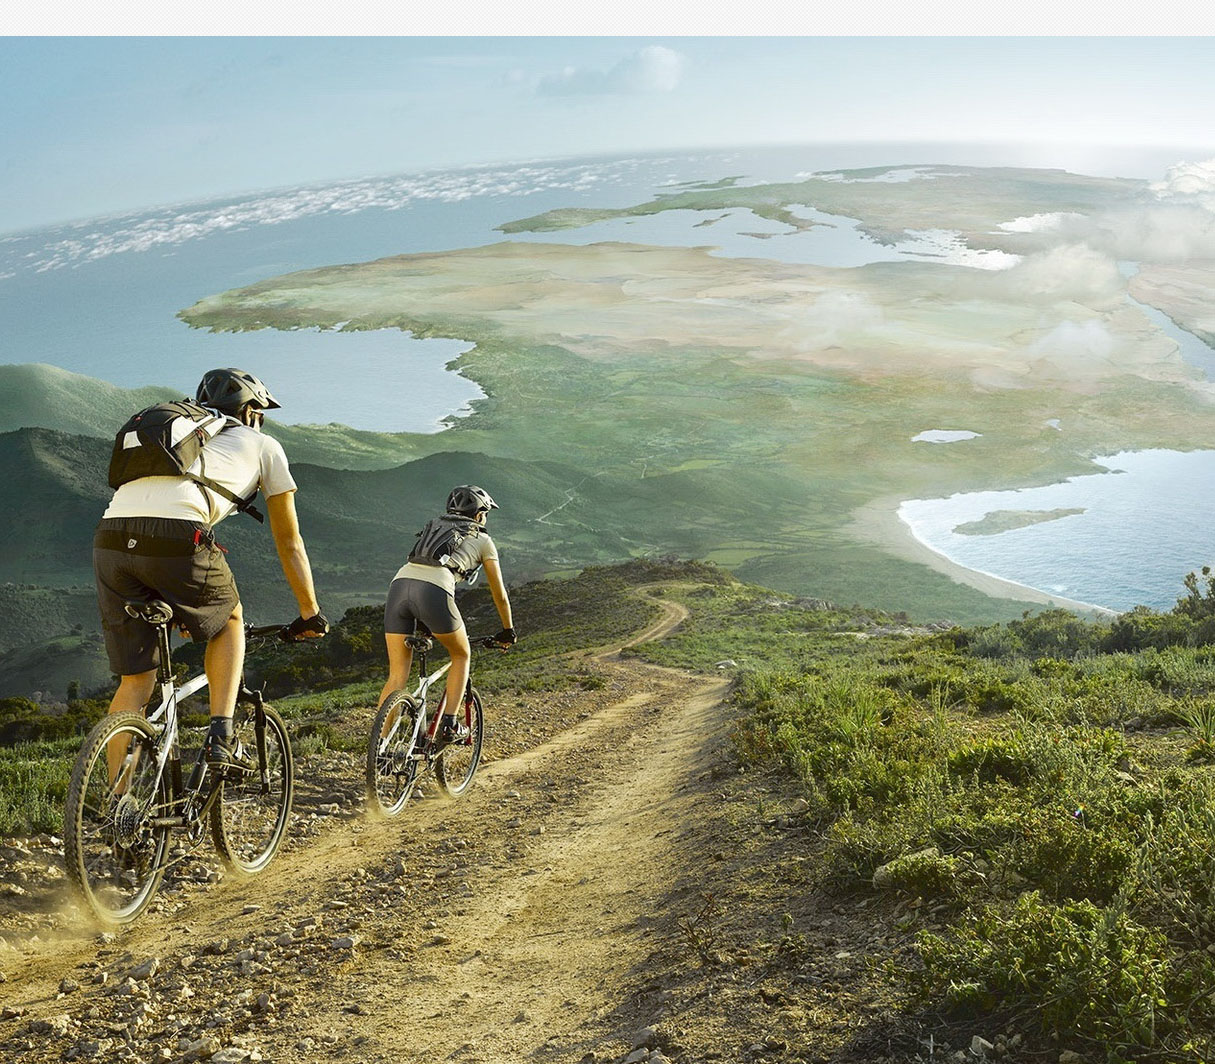
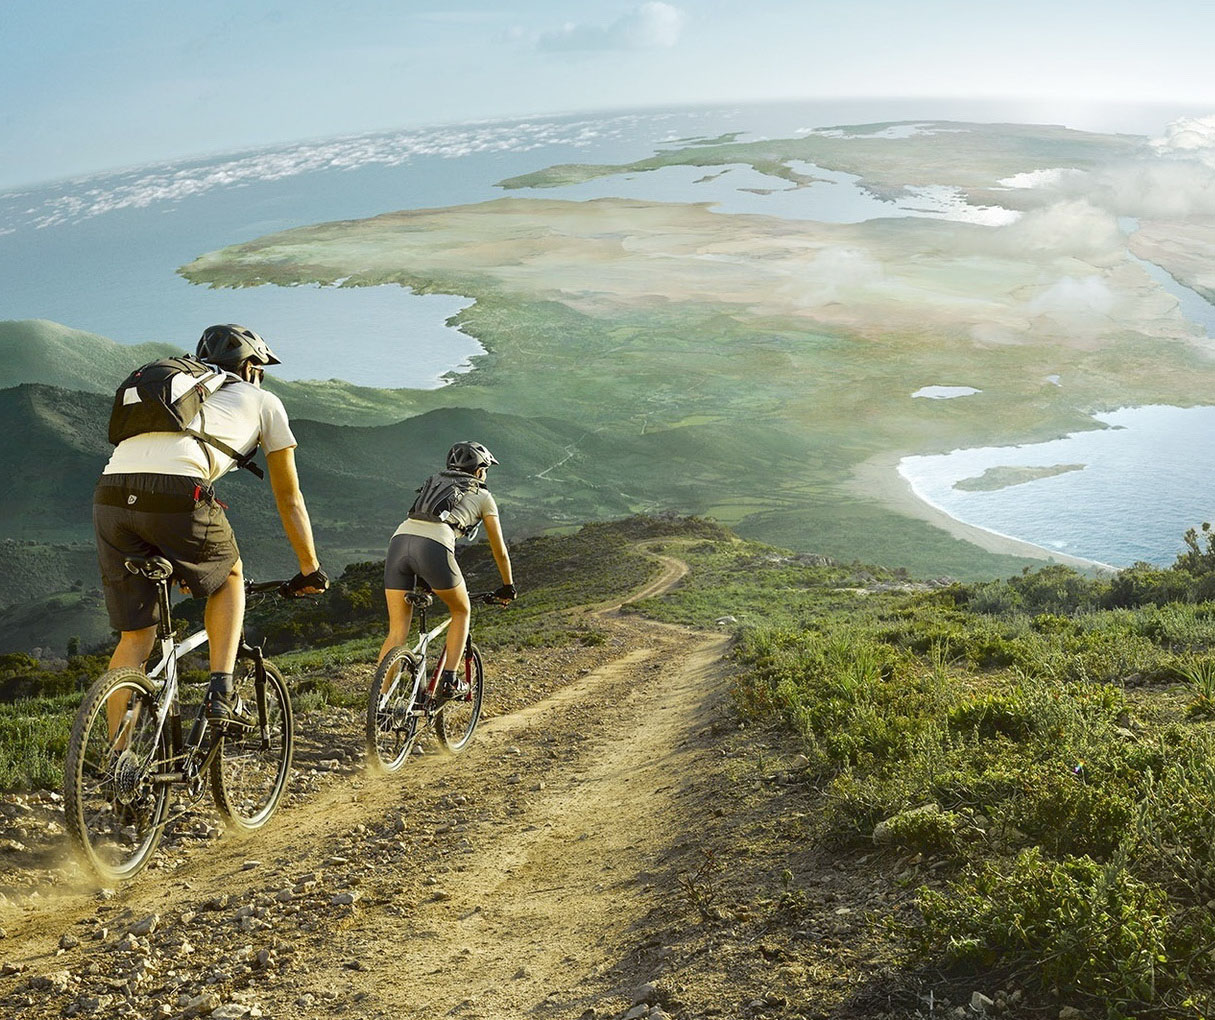
html5 changed

diff --git a/html/htmlhome5-1.html b/html/htmlhome5-1.html
@@ -9,7 +9,7 @@
   <link rel="stylesheet" href="css\htmlhome5-1.css">
 </head>
 <body>
-  
+
   <div class="top-menu">
     <ul class="menu-caption-list">
       <li><a href="#">Meu_YouBike</a></li>
@@ -25,9 +25,9 @@
     </ul>
     <ul class="menu-caption-list3">
       <p>Ola!</p>
-      <li><a href="3">Entrar</a></li>
+      <li><a href="#">Entrar</a></li>
       <p>ou</p>
-      <li><a href="3">Cadastre-se</a></li>
+      <li><a href="#">Cadastre-se</a></li>
     </ul>
   </div>
   <div class="container">
@@ -39,28 +39,13 @@
     </div>
     <p class="ou">OU</p>
     <form class="reg-form" action="/" method="post">
-      <div class="field">
-        <input type="text" placeholder="First name" class="input">
-      </div>
-      <div class="field">
-        <input type="text" placeholder="Last name" class="input">
-      </div>
-      <div class="field">
-        <input type="email" placeholder="Email address" class="input">
-      </div>
-      <div class="field">
-        <input type="password" placeholder="Choose password" class="input">
-      </div>
-      <div class="field">
-        <input type="password" placeholder="Password confirm" class="input">
-      </div>
-      <div class="checkboxfield">
-        <input type="checkbox" id="checkbox">
-        <label for="checkbox" id="label">Send me Youbike updates and tips</label>
-      </div>
-      <div class="buttonfield">
+        <input type="text" placeholder="First name" class="input" name="fname">
+        <input type="text" placeholder="Last name" class="input" name="lname">
+        <input type="email" placeholder="Email address" class="input" name="">
+        <input type="password" placeholder="Choose password" class="input" name="new-password">
+        <input type="password" placeholder="Password confirm" class="input" name="re-password">
+        <label id="label"><input type="checkbox" id="checkbox">Send me Youbike updates and tips</label>
         <button type="submit" id="button">Create my Account</button>
-      </div>
       <p class="secure">
         By clicking the button above, you agree to the Terms of Service Xiew our Privacy Policy.
       </p>

diff --git a/html/css/htmlhome5-1.css b/html/css/htmlhome5-1.css
@@ -1,8 +1,11 @@
 @import "../../fonts/stylesheet.css" screen;
 body {
   background-image: url("../img/background.jpg");
-  background-size: 100%;
-  font-family: "helveticaneueregular";
+  background-repeat: no-repeat;
+  background-position: center;
+  background-size: cover;
+  background-attachment: fixed;
+  font-family: "Helvetica Neue";
 }
 .top-menu {
   background-color: #085596;
@@ -70,9 +73,7 @@ body {
   text-decoration: underline;
 }
 .container {
-  position: absolute;
-  top: 270px;
-  left: 370px;
+  margin: 270px auto;
   width: 520px;
   height: 550px;
   background-color: rgba(0, 0, 0, 0.5);
@@ -131,42 +132,38 @@ body {
   margin: 0 auto;
   width: 300px;
 }
-.field {
-  padding-bottom: 10px;
-}
 .input {
+  display: block;
   width: 276px;
   height: 35px;
   background-color: #000;
   text-indent: 15px;
   border: 1px solid #000;
   border-radius: 6px;
+  margin: 10px 0;
 }
 .input:focus {
   background-image: linear-gradient(to top, #1b5288 0%, #1b5288 100%);
   box-shadow: 0 1px 0 #4b4b4b, inset 0 2px 5px rgba(29, 26, 22, 0.2), 0 0 9px rgba(47, 123, 197, 0.77), inset 0 0 2px rgba(0, 0, 0, 0.1);
-}
-.checkboxfield {
-  padding-bottom: 20px;
+  color: white;
 }
 #label {
+  display: block;
+  padding-right: 5px;
+  margin: 20px 0;
   font-size: 12px;
   color: white;
 }
-.buttonfield {
-  margin: 0 auto;
+#button {
+  display: block;
+  margin: 10px auto;
   width: 150px;
   height: 30px;
-  padding-bottom: 10px;
-}
-#button {
   background-image: linear-gradient(to top, rgb(50, 128, 199) 0%, rgb(50, 128, 199) 20%, rgb(76, 168, 217) 100%);
-  border: 1px solid #3280c;
+  border: 1px solid #3280c7;
   border-radius: 8px;
   font-size: 12px;
   color: white;
-  width: 150px;
-  height: 30px;
 }
 .secure {
   padding-top: 20px;

diff --git a/html/css/htmlhome5-2.css b/html/css/htmlhome5-2.css
@@ -1,7 +1,7 @@
 table {
   border-collapse: collapse;
 }
-td,tr {
+td {
   border-right: 2px solid #000;
   border-bottom: 2px solid #000;
   width: 50px;
@@ -12,6 +12,9 @@ td,tr {
 .cell6,
 .cell13 {
   background-color: yellow;
+}
+.cell4 {
+  height: 100px;
 }
 .cell5 {
   background-color: red;

diff --git a/html/htmlhome5-2.html b/html/htmlhome5-2.html
@@ -20,7 +20,6 @@
       <td colspan="4" rowspan="4" class="cell5">Cell 5</td>
       <td colspan="2" rowspan="2" class="cell6">Cell 6</td>
     </tr>
-    <tr></tr>
     <tr>
       <td rowspan="3" class="cell7">Cell 7</td>
       <td rowspan="2" class="cell8">Cell 8</td>
